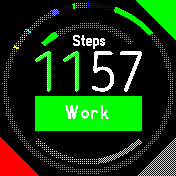
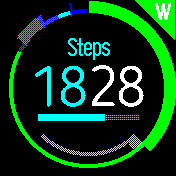
Catch up on README, screenshots

diff --git a/apps/harvester/README.md b/apps/harvester/README.md
@@ -14,10 +14,11 @@ of some fraction (1/3 by default) for later resting, which can be spent as you
 see fit (like Pomodoro, but more flexible). Running out of this “fallow” buffer 
 while doing something centering just leaves it empty (so you can eat a meal or 
 go to sleep), but running out while doing something divergent will count up the 
-deficit and show a red gauge segment for the total.
+deficit and show a counter-clockwise gauge segment for each category.
 
-The outer ring shows fruitful categories, with dimmed colors filling out segments 
-for the targets you haven’t yet reached. (There are six fruitful categories below.)
+The outer ring shows fruitful categories, with a thinner ring of colored segments 
+matching your targets just inside. (There are seven fruitful categories below, 
+one of which has surpassed its target.)
 
 ![](fruitful-partial.png)
 
@@ -25,8 +26,8 @@ If you surpass a target for a particular fruitful category, or you run over the
 fallow buffer in a divergent mode, those will appear in a ring inside the outer 
 one, starting from the top center and going clockwise for fruitful, and 
 counter-clockwise for divergent. These have no fixed duration and will be run 
-together with small dim margins between. (Below, you can see a few minutes in 
-each of three divergent categories I set up.)
+together. (Below, you can see a few minutes in each of three divergent categories 
+I set up, as well as some time in a couple of fruitful categories.)
 
 ![](divergent.png)
 
@@ -34,7 +35,8 @@ each of three divergent categories I set up.)
 You can configure categories from the App Loader’s web interface using the floppy 
 disk icon near the favorite/heart, or from the watch’s normal settings, although 
 the latter can’t currently set category names, so it will just put in placeholders. 
-Other settings are all handled from the watch currently.
+Other settings are all handled from the watch currently, such as hour color, the 
+color for the clock-info gauge, and the ratio of fruitful time to fallow buffer.
 
 If you want to focus more on your week as a whole, you can enable target adaptation 
 in Settings for individual fruitful categories. This will sum up your total 
@@ -42,12 +44,18 @@ progress so far in a week and increase or decrease your relevant targets so you
 can smooth out daily variations and achieve the overall target for the week if 
 you hit the target on the last day.
 
+You can also specify customized targets for specific days of the week, such as 0 
+for Work on weekends, or a higher target for Reflection on a given day to enable 
+deeper thought.
+
 ## Usage Details
 Switch modes by using the three corner buttons. If you realize you should have 
 switched sooner, tap the correct button again and scroll through the menu if 
 needed to find the last option, `(Fix start...)`. This will let you select the 
 number of minutes to retroactively move from the previous mode to the current,
-if there’s a way to make that work.
+if there’s a way to make that work. The most recently-selected category in either 
+fruitful or divergent will be preselected so you can switch back and forth 
+between fallow and fruitful time more quickly.
 
 The clock will buzz with increasing urgency as you run down the fallow buffer in 
 a divergent mode, and also every few minutes after that. It will also buzz in a 
@@ -85,10 +93,8 @@ please post in [this fork’s issues](https://github.com/TuggyNE/BangleApps/issu
 * Uses the [BloggerSansLight](https://www.1001fonts.com/rounded-fonts.html?page=3) font, which is free for commercial use
 
 ## Future Development
-* Add per-weekday scheduling for different targets
-* Remove triangle buttons in favor of something less visually noisy
 * Support fast loading
 * Allow configuring buzz patterns
 * Show tick marks between the rings to scale hours
-* Improve hour coloring, perhaps by configuration
-* Configure coloring for fallow buffer, clock-info gauge
+* Configure coloring for fallow buffer
+* Show some weekly stats from the watch directly
